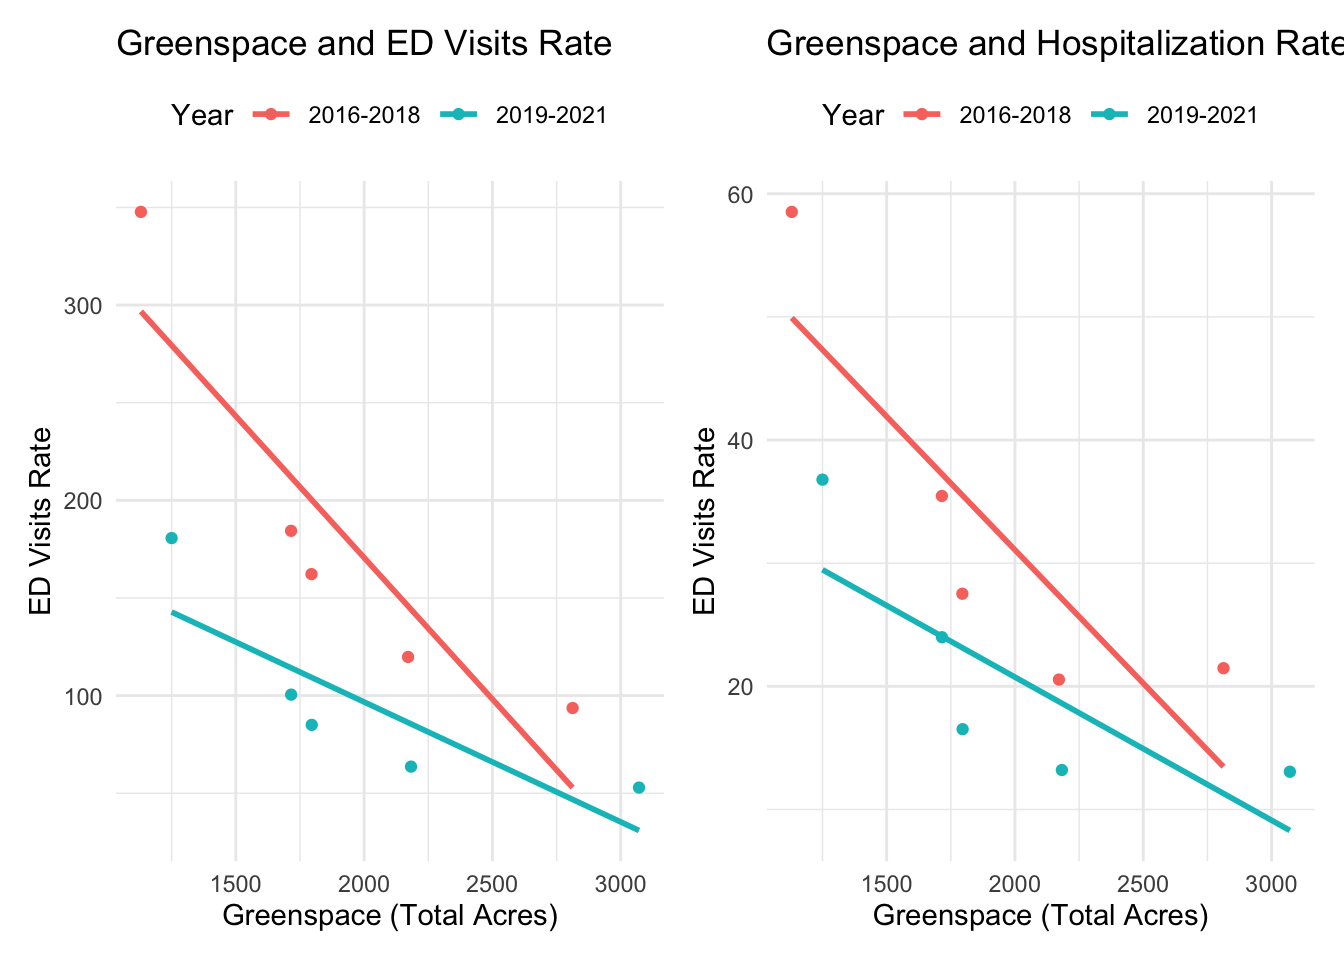
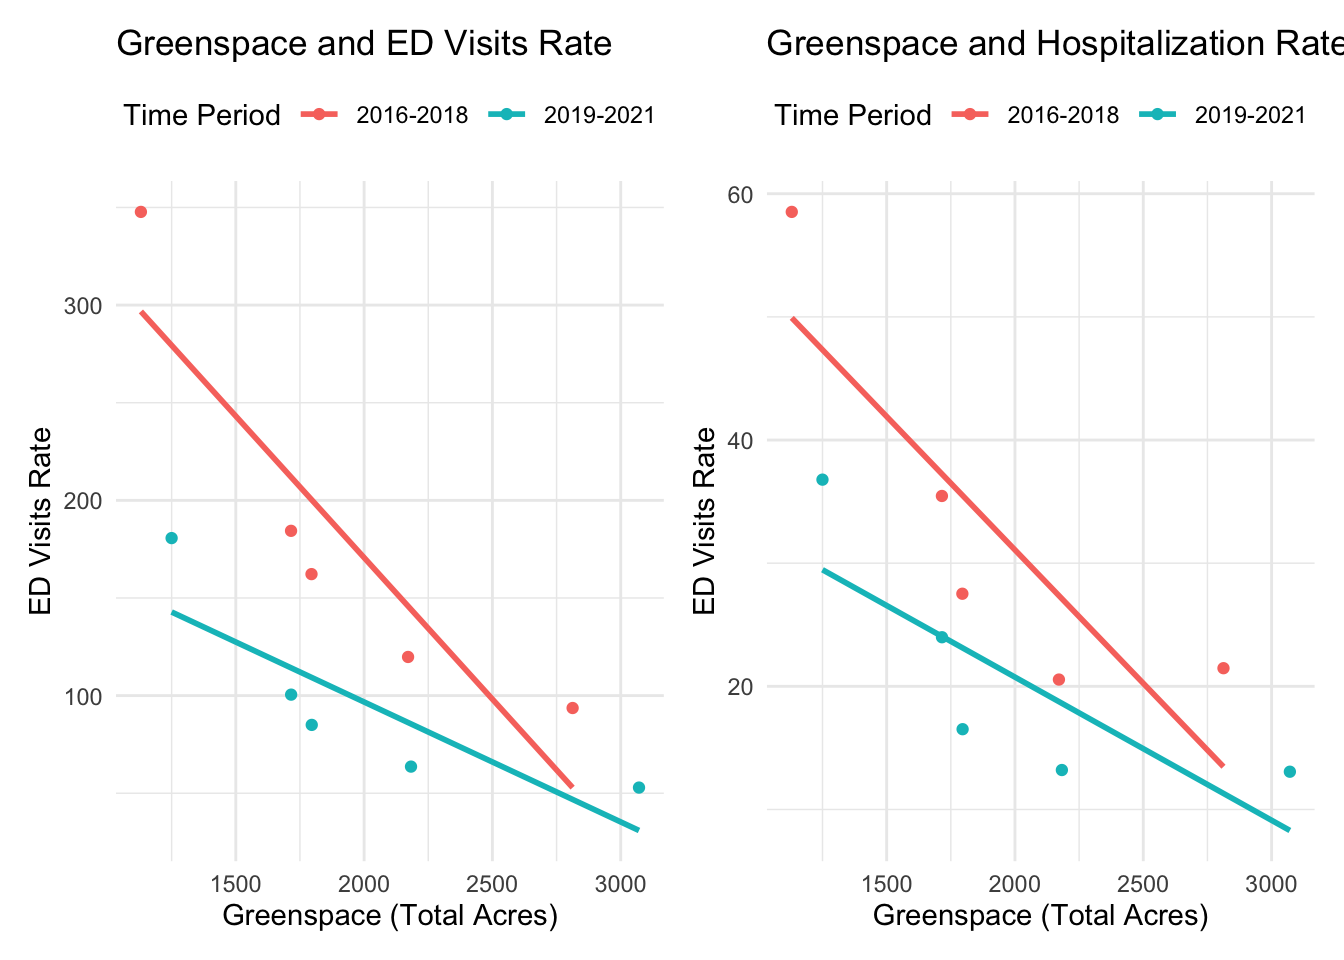
Updated plots and time period wording for consistency in reports

Changed region(s): [[0.5625, 0.0938, 0.9688, 0.1562], [0.0938, 0.0938, 0.4688, 0.125]]

diff --git a/report.html b/report.html
@@ -882,7 +882,7 @@ tidy_analysis_pm |&gt;
     title = &quot;Average PM2.5 Levels by Borough (2016-2018 vs 2019-2021)&quot;,
     x = &quot;Borough&quot;,
     y = &quot;PM2.5 Values&quot;,
-    fill = &quot;Year Group&quot;
+    fill = &quot;Time Period&quot;
   ) </code></pre>
 <p><img src="report_files/figure-html/unnamed-chunk-7-1.png" width="672" /></p>
 <p><strong>Figure 3. Average PM.25 levels across boroughs: 2016-2018 vs
@@ -1108,7 +1108,7 @@ Greenspace_data = total_acres |&gt;
 
 ggplot(total_acres, aes(x = reorder(borough, acres_sum), y = acres_sum, fill = year_group)) + 
   geom_bar(stat = &quot;identity&quot;, position = &quot;dodge&quot;, alpha = 0.7) + 
-  labs(x = &quot;Borough&quot;, y = &quot;Greenspace (Total Acres)&quot;, title = &quot;Greenspaces Across Borough by Year Group&quot;) +
+  labs(x = &quot;Borough&quot;, y = &quot;Greenspace (Total Acres)&quot;, title = &quot;Greenspaces Across Borough by Time Period&quot;, fill = &quot;Time Period&quot;) +
   theme_minimal()</code></pre>
 <p><img src="report_files/figure-html/unnamed-chunk-11-1.png" width="672" /></p>
 <p><strong>Figure 5. Greenspace distribution across boroughs: 2016-2018
@@ -1215,7 +1215,7 @@ binded |&gt;
       &quot;year2&quot; ~ &quot;2019-2021&quot;)) |&gt;
   ggplot(aes(x = reorder(typecategory, acres_total), y = acres_total, fill = year_group)) + 
   geom_bar(stat = &quot;identity&quot;, position = &quot;dodge&quot;, width = 0.6) +
-  labs(x = &quot;Greenspace Types&quot;, y = &quot;Total Acres&quot;, title = &quot;Total Acres of NYC Greenspace by Type and Year Group&quot;) +
+  labs(x = &quot;Greenspace Types&quot;, y = &quot;Total Acres&quot;, title = &quot;Total Acres of NYC Greenspace by Type and Time Period&quot;, fill = &quot;Time Period&quot;) +
     theme_minimal() +
   theme(axis.text.x = element_text(angle = 45, vjust = 1, hjust = 1))</code></pre>
 <p><img src="report_files/figure-html/unnamed-chunk-13-1.png" width="672" /></p>
@@ -1381,7 +1381,7 @@ all_temp = bind_rows(manhattan, bronx, brooklyn, queens, staten_island) |&gt;
   mutate(years = year(date)) |&gt; 
   mutate(months = as.Date(paste0(format(date, &quot;%Y-%m&quot;), &quot;-01&quot;), format = &quot;%Y-%m-%d&quot;))
 
-# Calculate average temperatures by borough and year group
+# Calculate average temperatures by borough and time period
 
 all_temp_borough = all_temp |&gt; 
   mutate(date = as.Date(time, format = &quot;%d/%m/%Y&quot;)) |&gt; 
@@ -1433,11 +1433,11 @@ mean_temp_year |&gt;
     names_from = borough,
     values_from = mean_temp
   ) |&gt;
-  knitr::kable(col.names = c(&quot;Years&quot;, &quot;Bronx&quot;, &quot;Brooklyn&quot;, &quot;Manhattan&quot;, &quot;Queens&quot;, &quot;Staten Island&quot;))</code></pre>
+  knitr::kable(col.names = c(&quot;Time Period&quot;, &quot;Bronx&quot;, &quot;Brooklyn&quot;, &quot;Manhattan&quot;, &quot;Queens&quot;, &quot;Staten Island&quot;))</code></pre>
 <table>
 <thead>
 <tr class="header">
-<th align="right">Years</th>
+<th align="right">Time Period</th>
 <th align="right">Bronx</th>
 <th align="right">Brooklyn</th>
 <th align="right">Manhattan</th>
@@ -1615,15 +1615,15 @@ Island - a gap of 2 points on the HVI scale.</p>
 <h1>Predictor and Outcome Associations</h1>
 <div id="pm2.5" class="section level2">
 <h2>PM2.5</h2>
-<div id="year-group-comparison" class="section level4">
-<h4>Year Group Comparison</h4>
+<div id="time-period-comparison" class="section level4">
+<h4>Time Period Comparison</h4>
 <pre class="r"><code>#plot both outcomes
 combined_plot = EDplot_pm2_5 + hosplot_pm2_5 
 
 combined_plot</code></pre>
 <p><img src="report_files/figure-html/unnamed-chunk-21-1.png" width="672" /></p>
 <p><strong>Figure 9. PM2.5 Levels and Outcome (ED Visits Rate and
-Hospitalization Rate) by Year Group</strong></p>
+Hospitalization Rate) by Time Period</strong></p>
 <pre class="r"><code>#combine correlation table
 ED_values = EDmodels_pm2_5 |&gt;
   mutate(Outcome = &quot;ED Visit Rates&quot;)
@@ -1634,14 +1634,14 @@ Hosp_values = hospmodels_pm2_5 |&gt;
 Yr_table = bind_rows(ED_values, Hosp_values) |&gt;
   select(Outcome, Year, slope, r_squared, r) #reorder
 
-knitr::kable(Yr_table, digits = 3)</code></pre>
+knitr::kable(Yr_table, digits = 3, col.names = c(&quot;Outcome&quot;, &quot;Time Period&quot;, &quot;Slope&quot;, &quot;R Squared&quot;, &quot;r&quot;))</code></pre>
 <table>
 <thead>
 <tr class="header">
 <th align="left">Outcome</th>
-<th align="left">Year</th>
-<th align="right">slope</th>
-<th align="right">r_squared</th>
+<th align="left">Time Period</th>
+<th align="right">Slope</th>
+<th align="right">R Squared</th>
 <th align="right">r</th>
 </tr>
 </thead>
@@ -1677,18 +1677,18 @@ knitr::kable(Yr_table, digits = 3)</code></pre>
 </tbody>
 </table>
 <p><strong>Table 9. Correlation between PM2.5 Levels and Outcomes by
-Year Group</strong></p>
+Time Period</strong></p>
 <p><strong>ED Visit Rates</strong>: The association between PM2.5 and ED
-visit rates are similar for both year groups. Data from 2016 to 2018 and
-2019 to 2021 indicate a positive association between the two variables
-with a correlation coefficient of 0.377 and 0.323, respectively. Thus,
-PM2.5 levels is weakly associated with hospitalization rate for both
-year groups.</p>
+visit rates are similar for both time periods. Data from 2016 to 2018
+and 2019 to 2021 indicate a positive association between the two
+variables with a correlation coefficient of 0.377 and 0.323,
+respectively. Thus, PM2.5 levels is weakly associated with
+hospitalization rate for both time periods.</p>
 <p><strong>Hospitalization Rates</strong>: There is a positive
-association between PM2.5 and hospitalization rates for both year groups
-with an estimated correlation coefficient of 0.414. Decreased PM2.5
-levels is thus moderately associated with decreased hospitalization rate
-for both year groups.</p>
+association between PM2.5 and hospitalization rates for both time
+periods with an estimated correlation coefficient of 0.414. Decreased
+PM2.5 levels is thus moderately associated with decreased
+hospitalization rate for both time periods.</p>
 </div>
 <div id="borough-and-year-comparison" class="section level4">
 <h4>Borough and Year Comparison</h4>
@@ -1696,7 +1696,7 @@ for both year groups.</p>
 combo</code></pre>
 <p><img src="report_files/figure-html/unnamed-chunk-23-1.png" width="672" /></p>
 <p><strong>Figure 10. PM2.5 Levels and Outcomes across Borough and by
-Year Group</strong></p>
+Time Period</strong></p>
 <p>For all boroughs, PM2.5 levels and ED visit rates are higher in 2016
 to 2018 than in 2019 to 2021. Compared to the other boroughs, decrease
 in ED visit rate per PM2.5 level is most dramatic in the Bronx.</p>
@@ -1708,15 +1708,15 @@ hospitalization rate per PM2.5 level.</p>
 </div>
 <div id="greenspace-1" class="section level2">
 <h2>Greenspace</h2>
-<div id="year-group-comparison-1" class="section level4">
-<h4>Year Group Comparison</h4>
+<div id="time-period-comparison-1" class="section level4">
+<h4>Time Period Comparison</h4>
 <pre class="r"><code>#GS plots
 GS_combo = EDplot + hosplot
 
 GS_combo</code></pre>
 <p><img src="report_files/figure-html/unnamed-chunk-24-1.png" width="672" />
 <strong>Figure 11. Greenspace and Outcome (ED Visits Rate and
-Hospitalization Rate) by Year Group</strong></p>
+Hospitalization Rate) by Time Period</strong></p>
 <pre class="r"><code>#combine correlation table
 GS_ED_values = EDmodels |&gt;
   mutate(Outcome = &quot;ED Visit Rates&quot;)
@@ -1727,14 +1727,14 @@ GS_Hosp_values = hospmodels |&gt;
 Yr_table_GS = bind_rows(GS_ED_values, GS_Hosp_values) |&gt;
   select(Outcome, Year, slope, r_squared, r) #reorder
 
-knitr::kable(Yr_table_GS, digits = 3)</code></pre>
+knitr::kable(Yr_table_GS, digits = 3, col.names = c(&quot;Outcome&quot;, &quot;Time Period&quot;, &quot;Slope&quot;, &quot;R Squared&quot;, &quot;r&quot;))</code></pre>
 <table>
 <thead>
 <tr class="header">
 <th align="left">Outcome</th>
-<th align="left">Year</th>
-<th align="right">slope</th>
-<th align="right">r_squared</th>
+<th align="left">Time Period</th>
+<th align="right">Slope</th>
+<th align="right">R Squared</th>
 <th align="right">r</th>
 </tr>
 </thead>
@@ -1769,22 +1769,22 @@ knitr::kable(Yr_table_GS, digits = 3)</code></pre>
 </tr>
 </tbody>
 </table>
-<p><strong>Table 10. Correlation between Greenspace and Outcomes by Year
-Group</strong></p>
+<p><strong>Table 10. Correlation between Greenspace and Outcomes by Time
+Period</strong></p>
 <p><strong>ED Visit Rates</strong>: The correlation coefficient for both
-year groups are similar. Data from 2016 to 2018 indicates a negative
+time periods are similar. Data from 2016 to 2018 indicates a negative
 association between greenspace and ED visit rate (r = -0.905). Data from
 2019 to 2021 also shows a negative association between these two
 variables (r = -0.830). Thus, increased greenspace is strongly
-associated with decreased ED visit rate for both year groups.</p>
+associated with decreased ED visit rate for both time periods.</p>
 <p><strong>Hospitalization Rates</strong>: Similar to the trend
 comparing greenspace and ED visit rates, the correlation coefficient for
-both year groups are similar. Data from 2016 to 2018 indicates a
+both time periods are similar. Data from 2016 to 2018 indicates a
 negative association between greenspace and hospitalization rate (r =
 -0.861). Data from 2019 to 2021 also shows a negative association
 between these two variables (r = -0.793). Thus, **increased greenspace
-is strongly associated with decreased hospitalization rate for both year
-groups.</p>
+is strongly associated with decreased hospitalization rate for both time
+periods.</p>
 </div>
 <div id="borough-and-year-comparison-1" class="section level4">
 <h4>Borough and Year Comparison</h4>
@@ -1792,27 +1792,27 @@ groups.</p>
 
 combo1</code></pre>
 <p><img src="report_files/figure-html/unnamed-chunk-28-1.png" width="672" /></p>
-<p><strong>Figure 12. Greenspace and Outcome across Borough and by Year
-Group</strong></p>
+<p><strong>Figure 12. Greenspace and Outcome across Borough and by Time
+Period</strong></p>
 <p>In Bronx, there is a dramatic decrease in ED visit rate with an
-increase in total acres of greenspace between the two year groups. This
+increase in total acres of greenspace between the two time period. This
 decrease is also seen for Staten Island. The association is less obvious
 for Brooklyn, Manhattan, and Queens.</p>
-<p>When comparing between the two year groups, the association for
+<p>When comparing between the two time periods, the association for
 borough-level greenspace and ED visit rate is similar to trend for
 borough-level greenspace and hospitalization rate.</p>
 </div>
 </div>
 <div id="temperature-1" class="section level2">
 <h2>Temperature</h2>
-<div id="year-group-comparison-2" class="section level4">
-<h4>Year Group Comparison</h4>
+<div id="time-period-comparison-2" class="section level4">
+<h4>Time Period Comparison</h4>
 <pre class="r"><code>temp_plot = tempplot + tempplot2
 
 temp_plot</code></pre>
 <p><img src="report_files/figure-html/unnamed-chunk-32-1.png" width="672" /></p>
 <p><strong>Figure 13. Temperature and Outcome (ED Visits Rate and
-Hospitalization Rate) by Year Group</strong></p>
+Hospitalization Rate) by Time Period</strong></p>
 <pre class="r"><code>#combine correlation table
 temp_ED_values = tempmodel |&gt;
   mutate(Outcome = &quot;ED Visit Rates&quot;)
@@ -1823,14 +1823,14 @@ temp_Hosp_values = tempmodel2 |&gt;
 temp_Yr_table = bind_rows(temp_ED_values, temp_Hosp_values) |&gt;
   select(Outcome, Year, slope, r_squared, r) #reorder
 
-knitr::kable(temp_Yr_table, digits = 3)</code></pre>
+knitr::kable(temp_Yr_table, digits = 3, col.names = c(&quot;Outcome&quot;, &quot;Time Period&quot;, &quot;Slope&quot;, &quot;R Squared&quot;, &quot;r&quot;))</code></pre>
 <table>
 <thead>
 <tr class="header">
 <th align="left">Outcome</th>
-<th align="left">Year</th>
-<th align="right">slope</th>
-<th align="right">r_squared</th>
+<th align="left">Time Period</th>
+<th align="right">Slope</th>
+<th align="right">R Squared</th>
 <th align="right">r</th>
 </tr>
 </thead>
@@ -1866,9 +1866,9 @@ knitr::kable(temp_Yr_table, digits = 3)</code></pre>
 </tbody>
 </table>
 <p><strong>Table 11. Correlation between Temperature and Outcomes by
-Year Group</strong></p>
+Time Period</strong></p>
 <p><strong>ED Visit Rate</strong>: The correlation coefficient for the
-year groups are different. Data from 2016 to 2018 indicates a weak
+time period are different. Data from 2016 to 2018 indicates a weak
 negative association between temperature and ED visit rate (r = -0.323).
 The correlation coefficient for 2019 to 2021 (r = -0.039) indicates no
 association between these two variables.</p>
@@ -1886,7 +1886,7 @@ Hospitalization.</p>
 <h4>Borough and Year Comparison</h4>
 <p><img src="report_files/figure-html/unnamed-chunk-34-1.png" width="672" /></p>
 <p><strong>Figure 14. Temperature and Outcomes across Borough and by
-Year Group</strong></p>
+Time Period</strong></p>
 <p>The plot shows that the higher temperature is associated with lower
 rate of ED visit and hospitalization.</p>
 </div>
